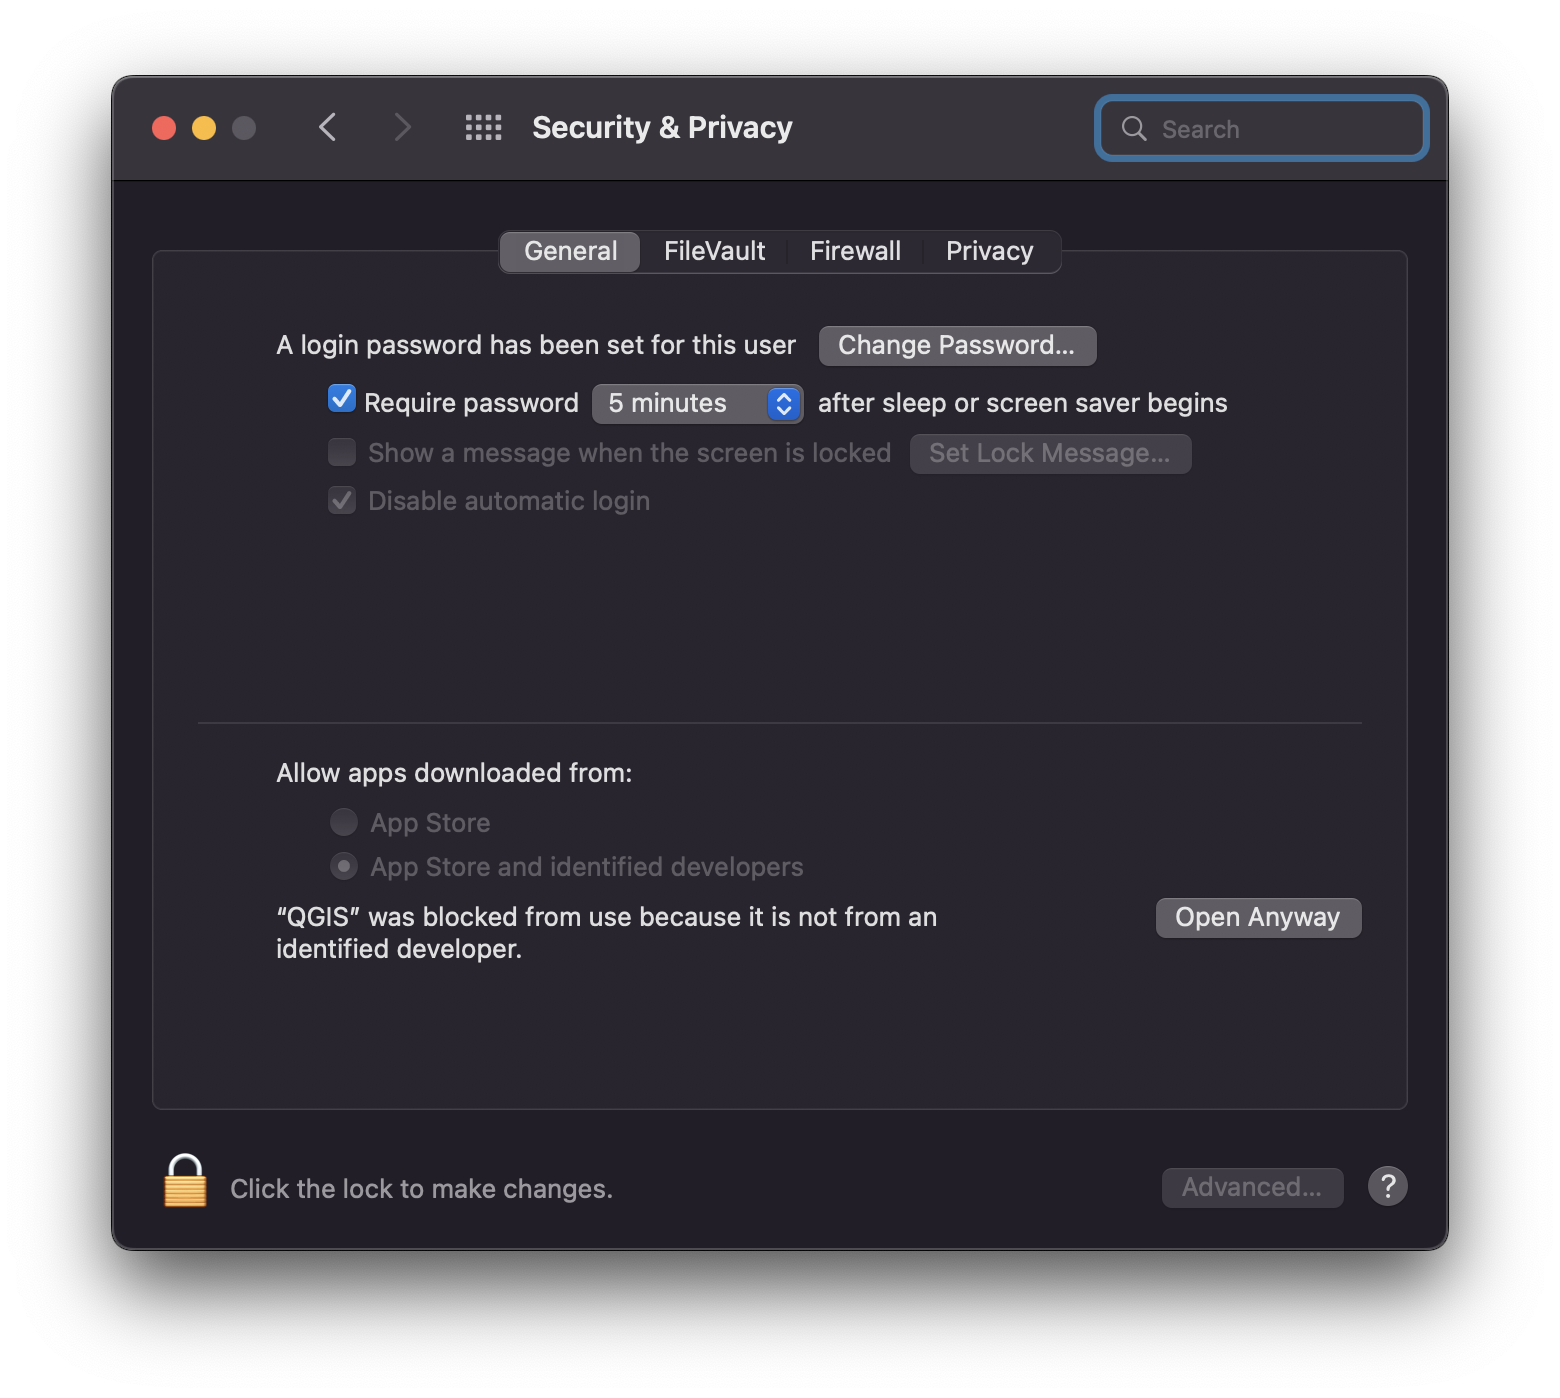
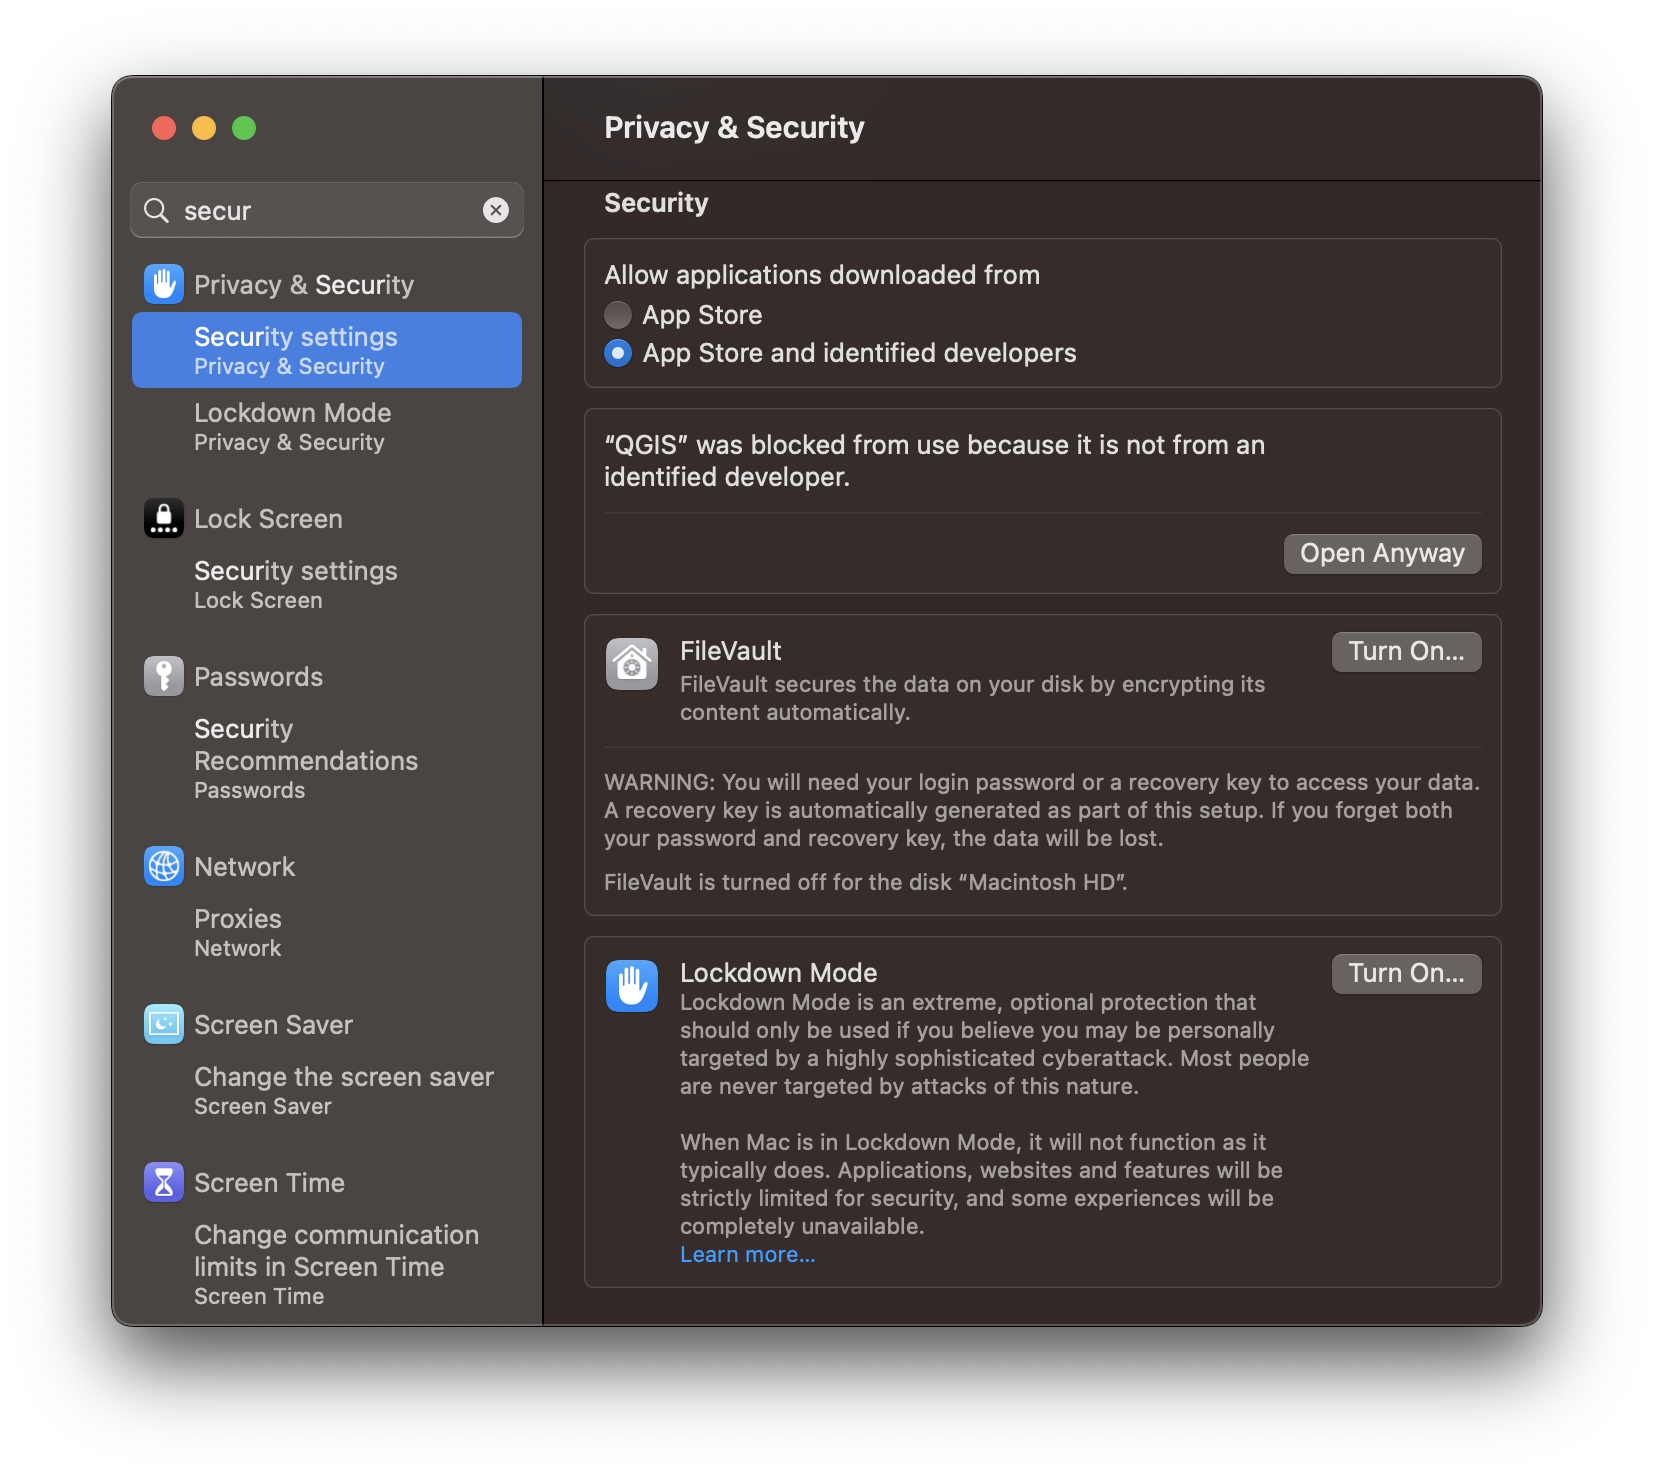
update macOS installation

diff --git a/source/usr_section/usr_installation.rst b/source/usr_section/usr_installation.rst
@@ -39,11 +39,9 @@ In case you already have QGIS installed, you can skip this step.
 MacOS
 ~~~~~
 
-Before you can install QGIS from the downloaded disk image, you need to allow your macOS to install it:
+1. Download the official `qgis-macos-pr.dmg` from `<https://www.qgis.org/en/site/forusers/download.html>`_.
 
-1. Download the official all-in-one, signed installer `here <https://www.qgis.org/en/site/forusers/download.html>`_.
-
-2. Extract the downloaded `qgis-macos-pr.dmg` and move it to your app folder
+2. Extract the `qgis-macos-pr.dmg` and move it to your app folder
 
    |mac_copy1| |mac_copy2|
 
@@ -53,13 +51,15 @@ Before you can install QGIS from the downloaded disk image, you need to allow yo
    :width: 500px
 
 3. Installing or opening QGIS may raise a verification warning. In that case, open your system preferences, go to
-   :menuselection:`Security & Privacy --> General` and allow QGIS to be opened anyway.
+   :menuselection:`Security & Privacy --> General` and allow QGIS to be *open anyway*.
 
-   |mac_check1| |mac_check2|
+   |mac_check1| |mac_check2| |mac_check3|
 
 .. |mac_check1| image:: /img/macos/install_qgis_check1.png
    :width: 500px
 .. |mac_check2| image:: /img/macos/install_qgis_check2.png
+   :width: 500px
+.. |mac_check3| image:: /img/macos/install_qgis_check3.png
    :width: 500px
 
 4. Now you can start QGIS.app from your application folder.
